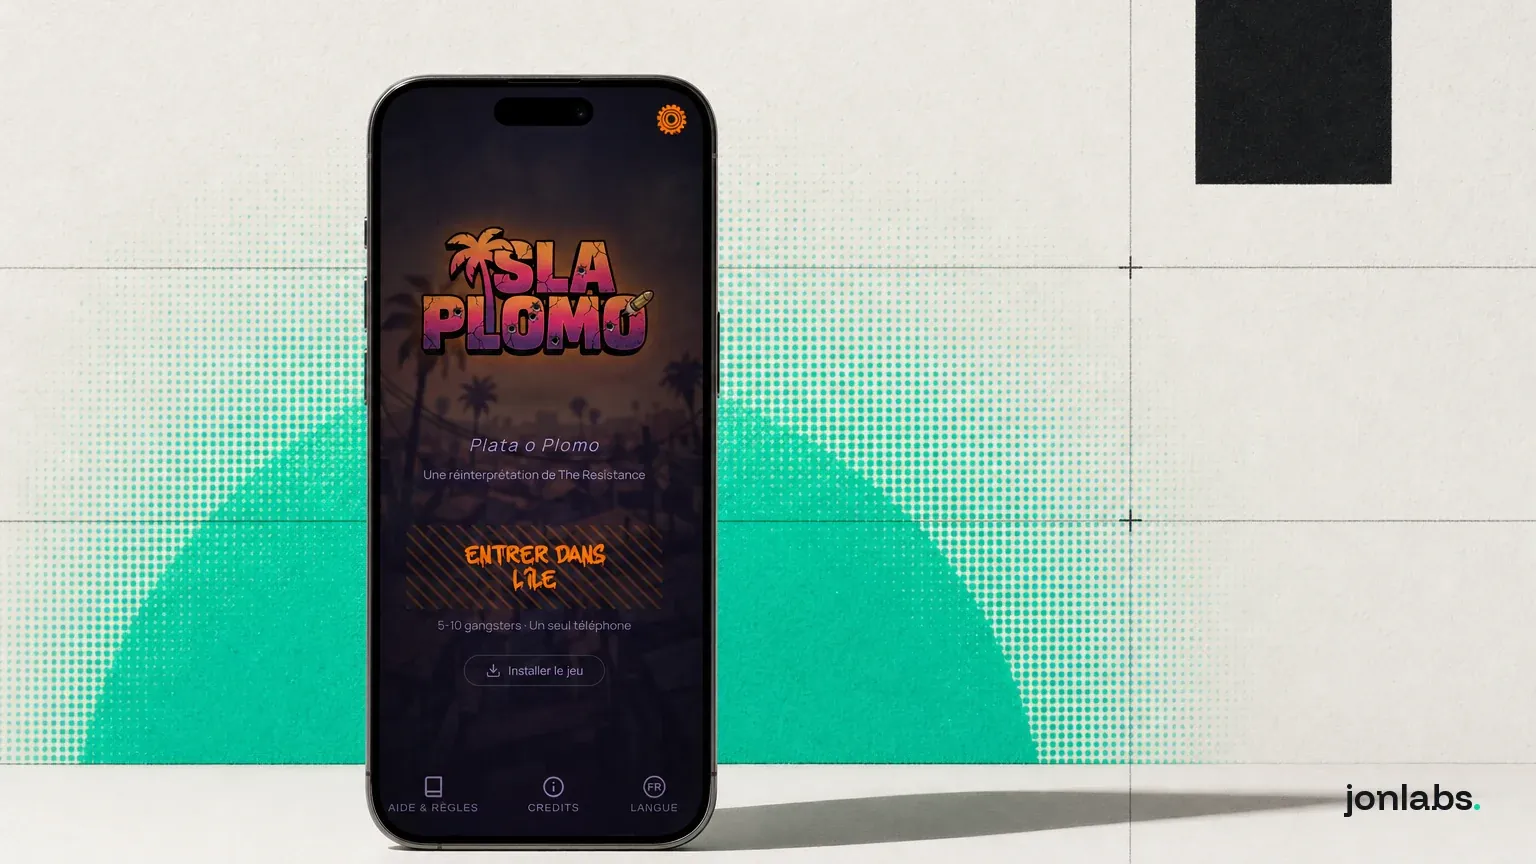
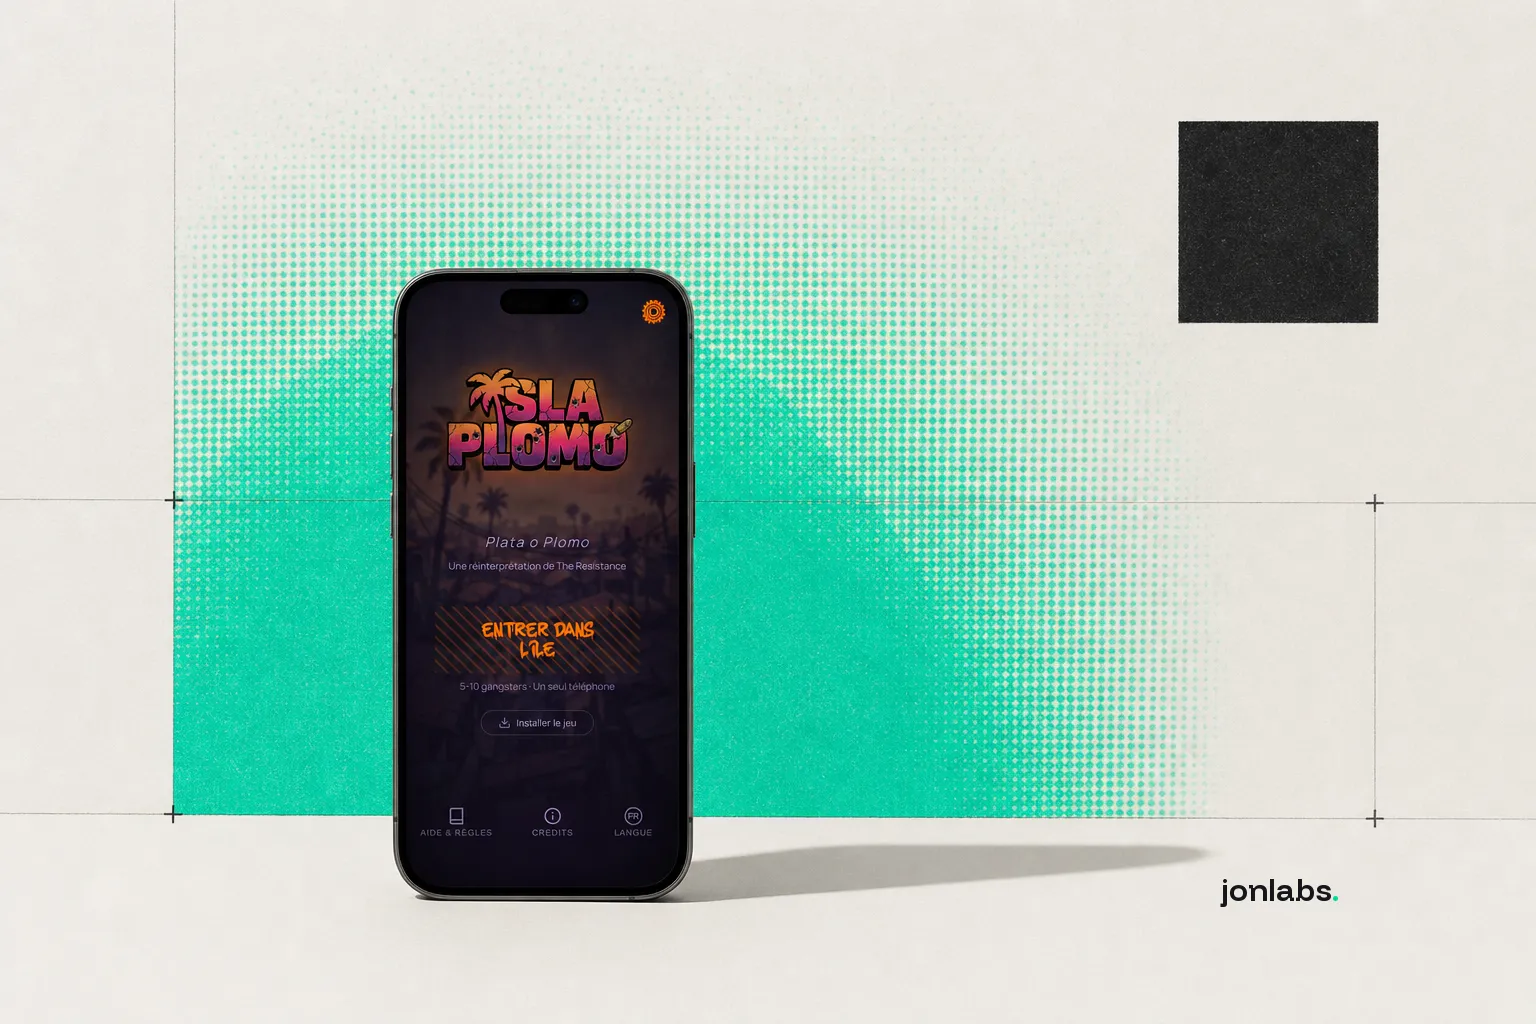
feat(portfolio): mockups 3:2 variés sans bandes, couvertures pour les cas IA, hero d'étude de cas pleine largeur avec bandeau teal animé, titres resserrés

diff --git a/src/styles/v2.css b/src/styles/v2.css
@@ -34,8 +34,8 @@
 /* Typo */
 .v2-h1, .v2-h2, .v2 h3, .v2-logo { font-family: var(--display); letter-spacing: -0.035em; }
 .v2-h1 { font-size: clamp(2.6rem, 6.6vw, 5.4rem); line-height: 0.96; font-weight: 500; letter-spacing: -0.055em; margin: 0; }
-.v2-h2 { font-size: clamp(2rem, 4.4vw, 3.4rem); line-height: 1; font-weight: 500; letter-spacing: -0.055em; margin: 0; }
-.v2 h3 { font-size: 1.4rem; font-weight: 500; margin-bottom: 6px; }
+.v2-h2 { font-size: clamp(2.1rem, 4.6vw, 3.55rem); line-height: .94; font-weight: 500; letter-spacing: -0.055em; margin: 0; }
+.v2 h3 { font-size: 1.47rem; line-height: 1.15; font-weight: 500; margin-bottom: 6px; }
 .v2-meta { font-family: var(--mono); font-size: 0.75rem; text-transform: uppercase; letter-spacing: 0.02em; color: var(--mut); display: flex; flex-wrap: wrap; gap: 6px 14px; align-items: center; }
 .v2-meta-hl { color: var(--accent-strong); }
 
@@ -295,8 +295,9 @@
 /* Étude de cas B : fiche technique (image bord à bord + spécifications). */
 .v2-spec { display: grid; grid-template-columns: 1.35fr 1fr; }
 /* Visuels 16:9 (mockups avec logo en coin) : affichés entiers, centrés, jamais rognés par la hauteur de la ligne */
-.v2-spec-img { overflow: hidden; background: var(--soft); border-right: 1px solid var(--line); min-height: 420px; display: flex; align-items: center; }
-.v2-spec-img img { width: 100%; height: auto; aspect-ratio: 16 / 9; object-fit: cover; display: block; transition: transform .6s var(--ease); }
+/* Visuels 3:2 avec logo et appareils dans une zone sûre (brand/mockup) : ils remplissent la colonne sans bandes. */
+.v2-spec-img { position: relative; overflow: hidden; background: var(--soft); border-right: 1px solid var(--line); min-height: 420px; }
+.v2-spec-img img { position: absolute; inset: 0; width: 100%; height: 100%; object-fit: cover; display: block; transition: transform .6s var(--ease); }
 .v2-spec:hover .v2-spec-img img { transform: scale(1.02); }
 .v2-spec-body { padding: 28px var(--pad); display: flex; flex-direction: column; gap: 22px; justify-content: space-between; align-items: flex-start; }
 .v2-spec-body .v2-mut { font-size: .95rem; }
@@ -350,7 +351,7 @@
 
 @media (max-width: 900px) {
   .v2-spec, .v2-posts { grid-template-columns: 1fr; }
-  .v2-spec-img { min-height: 240px; border-right: 0; border-bottom: 1px solid var(--line); }
+  .v2-spec-img { min-height: 0; aspect-ratio: 3 / 2; border-right: 0; border-bottom: 1px solid var(--line); }
   .v2-posts-main { border-right: 0; border-bottom: 1px solid var(--line); }
   .v2-proofs { grid-template-columns: 1fr 1fr; }
   .v2-proofs > div:nth-child(3) { border-left: 0; }

diff --git a/src/components/v2/DitherBg.tsx b/src/components/v2/DitherBg.tsx
@@ -1,13 +1,13 @@
 // Fond « tramé » (shader Paper, WebGL) pour l'essai B du hero du styleguide v2.
 import { Dithering } from '@paper-design/shaders-react';
 
-export default function DitherBg() {
+export default function DitherBg({ back = '#FFFFFF', front = '#CDF3E7' }: { back?: string; front?: string }) {
   const reduce = typeof window !== 'undefined' && matchMedia('(prefers-reduced-motion: reduce)').matches;
   return (
     <Dithering
       style={{ position: 'absolute', inset: 0, width: '100%', height: '100%' }}
-      colorBack="#FFFFFF"
-      colorFront="#CDF3E7"
+      colorBack={back}
+      colorFront={front}
       shape="warp"
       type="4x4"
       size={2}
